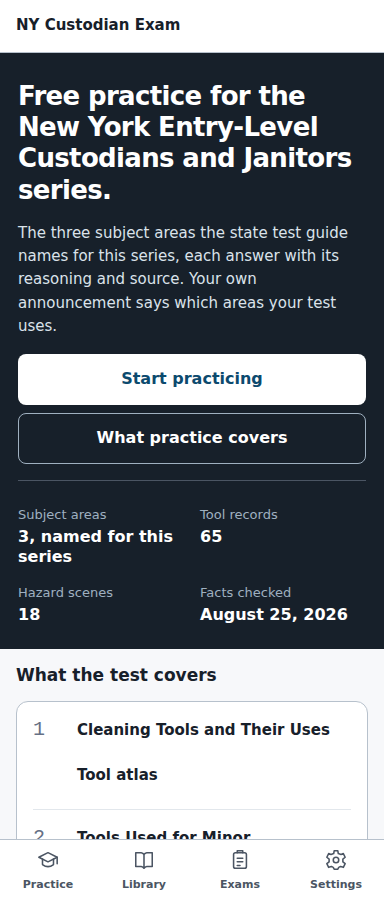
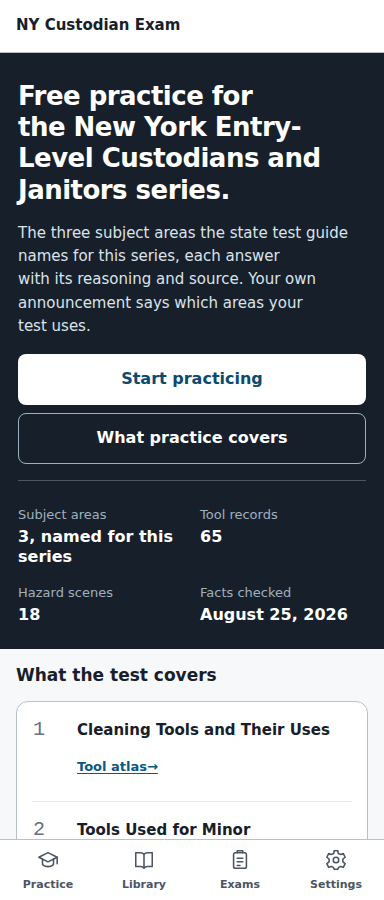
Reconcile Practice first-visit order and compact activity cards

diff --git a/apps/site/src/study/react/study-hub.tsx b/apps/site/src/study/react/study-hub.tsx
@@ -17,10 +17,10 @@ const StudyIcon = ({ kind }: { readonly kind: keyof typeof studyIconPaths }) =>
   <svg className="study-icon" viewBox="0 0 24 24" width="24" height="24" fill="none" stroke="currentColor" strokeWidth="1.6" strokeLinecap="round" strokeLinejoin="round" aria-hidden="true">{studyIconPaths[kind]}</svg>
 
 const ways = [
-  { icon: "practice", title: "Practice set", description: "Answer questions at your own pace. Read the explanation and sources after each saved answer.", href: "#practice-builder", action: "Choose a set" },
-  { icon: "hazard", title: "Hazard practice", description: "Look through a workplace scene and mark hazards, or use the keyboard zone version.", href: "/hazards/", action: "Explore the scenes" },
-  { icon: "simulation", title: "Simulation", description: "Choose a practice length and your own timing. Feedback waits until you finish.", href: "/simulations/", action: "Set up a simulation" },
-  { icon: "print", title: "Print a set", description: "Study on paper, with questions and their answer key on separate pages.", href: "/print/", action: "Open print center" }
+  { icon: "practice", title: "Practice set", compactDescription: "Choose a question set", description: "Answer questions at your own pace. Read the explanation and sources after each saved answer.", href: "#practice-builder", action: "Choose a set" },
+  { icon: "hazard", title: "Hazard practice", compactDescription: "Visual and keyboard scenes", description: "Look through a workplace scene and mark hazards, or use the keyboard zone version.", href: "/hazards/", action: "Explore the scenes" },
+  { icon: "simulation", title: "Simulation", compactDescription: "Your own timing", description: "Choose a practice length and your own timing. Feedback waits until you finish.", href: "/simulations/", action: "Set up a simulation" },
+  { icon: "print", title: "Print a set", compactDescription: "Paper, with answer key", description: "Study on paper, with questions and their answer key on separate pages.", href: "/print/", action: "Open print center" }
 ] as const
 
 export const StudyHub = ({ bootstrap, activityState, reviewController, onRetry }: {
@@ -52,9 +52,12 @@ export const StudyHub = ({ bootstrap, activityState, reviewController, onRetry }
   const firstPractice = bootstrap.firstPractice
   const waysSection = (<section className="study-section" aria-labelledby="study-ways-heading">
       <div className="section-header"><h2 id="study-ways-heading">Ways to practice</h2><p><a href="/settings/">Larger text and reduced motion</a>{" · "}<a href="/offline/">Download for offline use</a></p></div>
-      <ul className="task-cards">{ways.map((way, index) => <li className={`task-card${index === 0 ? " task-card-primary" : ""}`} key={way.href}>
-        <StudyIcon kind={way.icon} /><h3>{way.title}</h3><p>{way.description}</p>
-        <a className={`button ${index === 0 ? "button-primary" : "button-secondary"}`} href={way.href}>{way.action}</a>
+      <ul className="task-cards study-ways-grid">{ways.map((way, index) => <li className={`task-card${index === 0 ? " task-card-primary" : ""}`} key={way.href}>
+        <a className="task-card-link" href={way.href} aria-labelledby={`study-way-${way.icon}`}>
+          <StudyIcon kind={way.icon} /><h3 className="task-card-title" id={`study-way-${way.icon}`}>{way.title}</h3>
+          <p className="task-card-description">{way.description}</p><p className="task-card-compact-summary">{way.icon === "hazard" ? `${bootstrap.sceneCount} scenes` : way.compactDescription}</p>
+          <span className={`task-card-cta button ${index === 0 ? "button-primary" : "button-secondary"}`}>{way.action}</span>
+        </a>
       </li>)}</ul>
     </section>)
   const progressSection = (<section className="study-section" aria-labelledby="study-progress-heading">
@@ -120,13 +123,13 @@ export const StudyHub = ({ bootstrap, activityState, reviewController, onRetry }
       {coverageSection}
       {waysSection}
     </> : <>
-      {coverageSection}
       {waysSection}
       {progressSection}
       <div className="study-activity-grid">
         {reviewSection}
         <ActivityHistory state={historyState} onRetry={onRetry} />
       </div>
+      {coverageSection}
     </>}
     <PracticeBuilder sources={bootstrap.reviewQueue.questions} />
     <section className="study-section" aria-labelledby="study-exam-heading">

diff --git a/apps/site/src/study-design.css b/apps/site/src/study-design.css
@@ -189,3 +189,11 @@
     .review-page .study-hero .figure-strip dd { font-size: 1rem; }
   }
 }
+
+@layer overrides {
+  @media (max-width: 40rem) {
+    .task-cards.study-ways-grid { grid-template-columns: repeat(2, minmax(0, 1fr)); gap: var(--space-2); }
+    .study-first-visit .study-progress-rows :is(p, a) { display: none; }
+    .study-first-visit .study-progress-rows strong { font-weight: var(--weight-normal); color: var(--color-text-muted); }
+  }
+}

diff --git a/design-review/2026-09-07/IMPLEMENTATION-STATUS.md b/design-review/2026-09-07/IMPLEMENTATION-STATUS.md
@@ -6,7 +6,7 @@ The active task is the complete handoff in `/mnt/models/dev/nycustodianexam/IMPL
 |---|---|---|
 | Shared navigation | `acd7a88`, 1248/384 captures, reflow/keyboard/no-JS/bottom-bar tests | 48 design-handoff checks now pass across Chromium/Firefox/WebKit; repeat only if later shell changes warrant it |
 | Home | First-slice comparison gallery and notes | Full-page and six-section 1248/384 comparison captured in home-final-audit; compact coverage hierarchy and subject links corrected; compact trust reduced to the reference’s three rows with current home-compact-audit evidence and three-browser reflow/axe passes; prototype heading sizing/wrapping restored with actual-font evidence; source/footer density and remaining platform line-break differences documented in IMPLEMENTATION-REVIEW.md |
-| Practice hub and Review | First-slice real-save/failure captures, durable review regression tests | Final visual audit and mixed-inventory wording as builder is added |
+| Practice hub and Review | First-slice real-save/failure captures, durable review regression tests | First-visit section order, compact activity cards and saved rows reconciled; 24 integrated captures refreshed and 18 three-browser workflow checks pass; remaining hero/link placement, coverage/preset density and Review visual audit |
 | Simulation setup | SETUP-ATLAS-REVIEW.md, effective lengths/timing/format; no exam prerequisite | Final integrated capture/checks |
 | Practice/Hazard builder | PRACTICE-BUILDER-REVIEW.md and HAZARD-BUILDER-REVIEW.md: effective builders, custom navigation and exact saved-history receipts | Hazard page composition updated with desktop/compact/no-JS evidence; Practice composition/direct-link focus updated with desktop/compact captures and three-browser checks; Practice/Hazard summaries reconciled with desktop/compact evidence and 15 targeted browser passes; final integrated comparison remains; CROSS-BROWSER-WORKFLOWS.md records 27 three-browser builder/Review passes, including real offline save/feedback; WebKit emulation issue isolated with a minimal reproduction; custom import passes in Chromium |
 | Atlas catalog | Nine-family desktop/compact controls, all 65 images, eligibility/failure states | ATLAS-RECORD-REVIEW.md: sampled record/family reflow, readable missing-image fallback, all 65 records audited and reference-only capture; final catalog/cross-browser comparison remains |

diff --git a/design-review/2026-09-07/IMPLEMENTATION-REVIEW.md b/design-review/2026-09-07/IMPLEMENTATION-REVIEW.md
@@ -128,3 +128,30 @@ Root build/artifact checks and updated capture assertions passed. The capture
 script now asserts heading sizes and records typography for reproducibility.
 Earlier three-browser compact reflow checks preceded this typography correction;
 the current capture verification is Chromium only.
+
+## Practice first-visit composition follow-up
+
+The final comparison with reference 06 exposed an ordering mismatch: first-visit
+coverage preceded Ways to practice. Moved coverage below saved activity, Review,
+and recent activity, matching the reference's sequence. Returning state ordering
+is unchanged. Practice activity cards now use the existing whole-card-link
+component styling: four columns at ample width and two compact columns, concise
+compact summaries, with the real hazard count from bootstrap. First-visit compact
+saved activity now omits the repeated descriptions and action buttons, matching
+the reference's concise record rows. Those destinations remain in the activity
+cards and shared Library navigation.
+
+Refreshed all 24 integrated core states in `integrated-core-screenshots/` through
+real answer saves and explicit failure fixtures without unexpected page errors.
+Inspected first-visit desktop and compact viewport captures: activities now follow
+the hero; desktop retains four complete activity cards and compact begins its
+two-column grid. Root build/artifact checks and site typecheck passed. Eighteen
+existing Practice builder, saved-activity, unavailable-state, and durable Review
+checks passed across Chromium, Firefox, and WebKit. Offline tests were excluded
+because the content/save/cache contracts were unchanged.
+
+The complete page remains longer than the prototype because of the functional
+builder and detailed coverage. Compact hero coverage-link ordering, placement of
+settings/offline links, remaining coverage density, and the separate preset chooser
+still need final reconciliation. This update does not certify all integrated
+captures as visually complete.
